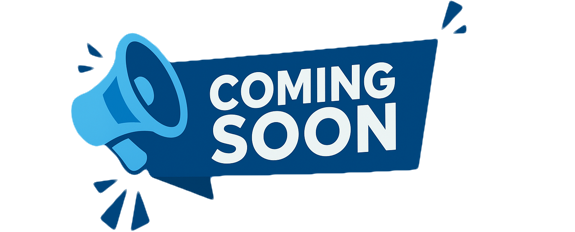
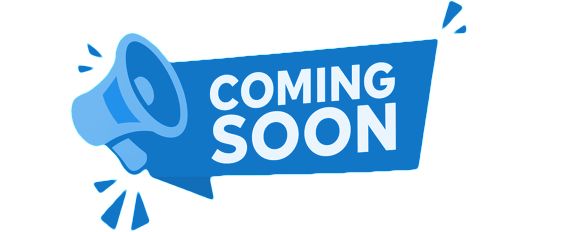
adding backoffice

Changed region(s): [[0.1183, 0.1207, 0.7687, 0.875], [0.1478, 0.7543, 0.2661, 0.9957], [0.7687, 0.0, 0.8278, 0.1509]]

diff --git a/src/website/layouts/product/baseof.html b/src/website/layouts/product/baseof.html
@@ -115,9 +115,9 @@
     </div>
 </div>
 {{ if .Params.how_tos }}
-<div class="our-document pt-5 pb-5">
+<div class="our-document pt-5 pb-3">
     {{ range .Params.how_tos }}
-    <div class="developers-custom pb-5">
+    <div class="developers-custom pb-0">
         <div class="container-fluid">
             <h2>{{ .section }}</h2>
             <div class="row">
@@ -127,7 +127,9 @@
                 {{end}}
                 <div class="col-lg-5 text-center">
                     <p>{{ $element.description | markdownify }}</p>
+                    {{ if $element.image }}
                     <img class="img-fluid" style="border-radius: 8px" src="/images/{{ $element.image }}" alt="{{ $element.alt }}"/>
+                    {{ end }}
                 </div>
                 {{ if not (modBool $index 2) }}
                 <div class="col-lg-1"></div>
@@ -137,6 +139,12 @@
         </div>
     </div>
     {{ end }}
+    {{ if .Params.large_image }}
+    <div class="d-flex justify-content-center">
+        <img class="img-fluid" style=" width: 50%; border-radius: 8px" src="/images/{{ .Params.large_image }}" alt="{{ $.Params.title }}"/>
+    </div>
+    {{ end }}
+
 </div>
 {{ end }}
 {{ if .Params.post_how_tos_partial }}{{ partial .Params.post_how_tos_partial . }}{{ end }}

diff --git a/src/website/content/_sites/backoffice/_index.md b/src/website/content/_sites/backoffice/_index.md
@@ -47,17 +47,14 @@ features:
 how_tos:
     -   section: Integration with your infrastructure
         steps:
-            -   description: Step 1 - Simply import the http4k-backoffice library to your Kotlin project and configure manual or automatic service discovery.
-                image: placeholder.png
+            -   description: Step 1 - Simply import the **http4k-backoffice** library to your Kotlin project and configure manual or **automatic service discovery**.
                 alt: Configure your Gateway
-            -   description: Step 2 - Define access controls with code-based whitelist/blacklist APIs for both developers and AI systems. Total control.
-                image: placeholder.png
+            -   description: Step 2 - Define **access controls** with code-based whitelist/blacklist APIs for both developers and AI systems.
                 alt: Define access controls
-            -   description: Step 3 - Implement custom extensions through our simple notification auditing connector APIs.
-                image: placeholder.png
+            -   description: Step 3 - Implement **custom extensions** through our simple notification auditing **connector APIs**.
                 alt: Implement extensions
-            -   description: Step 4 - Deploy to your cloud environment using your standard deployment process. No SaaS, Cloud or Vendor lock-in.
-                image: placeholder.png
+            -   description: Step 4 - Deploy to **your cloud environment** using your standard deployment process. **No SaaS, Cloud or Vendor lock-in**.
                 alt: Deploy to cloud
+large_image: backoffice-big.png
 email_form_id: 8b025c558c
 ---

diff --git a/src/website/content/pro.md b/src/website/content/pro.md
@@ -3,6 +3,11 @@ title: http4k Pro modules
 type: pro
 description: "The http4k Pro modules are a set of premium features and tools designed to help engineers solve recurring problems. These modules are designed to save you time and effort when building your http4k applications and provide production-ready implementations that help teams deploy http4k applications in regulated and high-volume environments."
 modules:
+  - name: BackOffice
+    link: https://backoffice.http4k.org
+    image: backoffice-focussed.png
+    description: Secure & audited API Gateway for developers and MCP tools to connect to your OpenAPI-powered services
+    available: false
   - name: Model Context Protocol
     link: https://mcp.http4k.org
     image: mcp.png

diff --git a/src/website/content/_sites/hotreload/_index.md b/src/website/content/_sites/hotreload/_index.md
@@ -35,10 +35,10 @@ features:
 how_tos:
     - section: Set it up in two easy steps
       steps:
-          - description: Step 1 - Create the factory class
+          - description: Step 1 - Create the **factory class**
             image: hotreload-step1.png
             alt: Create your factory class
-          - description: Step 2 - Run it with the HotReloadServer
+          - description: Step 2 - **Jus run it** with the HotReloadServer
             image: hotreload-step2.png
             alt: Run it with the HotReloadServer
 pricing_table:
